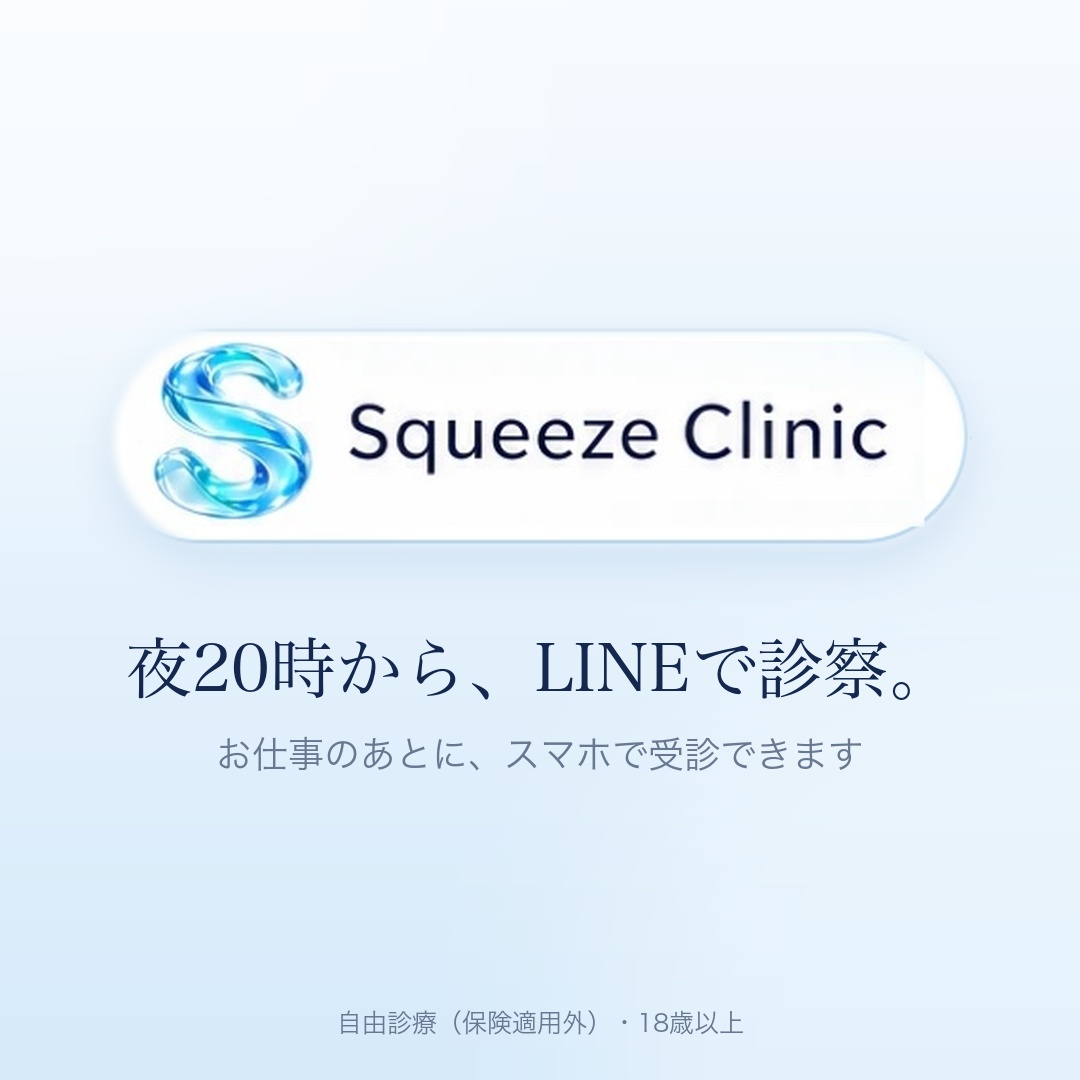
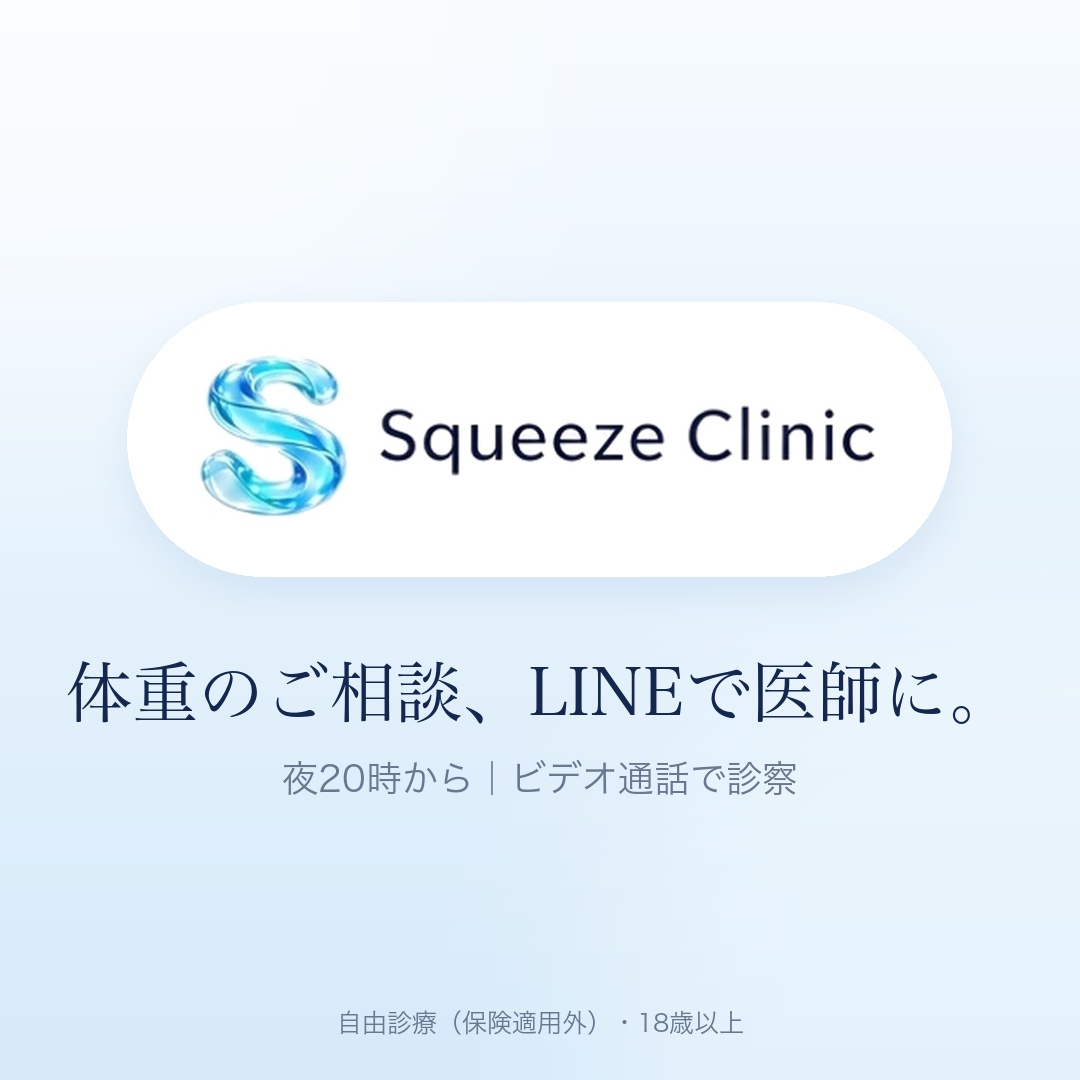
LP: headline to weight consultation

diff --git a/lp/index.html b/lp/index.html
@@ -3,9 +3,9 @@
 <head>
 <meta charset="utf-8">
 <meta name="viewport" content="width=device-width,initial-scale=1">
-<title>Squeeze Clinic｜夜20時から、LINEで診察</title>
+<title>Squeeze Clinic｜体重のご相談、LINEで医師に</title>
 <meta name="description" content="Squeeze Clinicは、LINEのビデオ通話で診察する内科のオンライン診療所です。診療時間は20:00〜翌1:00（火曜休診）。自由診療・18歳以上。">
-<meta property="og:title" content="Squeeze Clinic｜夜20時から、LINEで診察">
+<meta property="og:title" content="Squeeze Clinic｜体重のご相談、LINEで医師に">
 <meta property="og:description" content="LINEのビデオ通話で診察する内科のオンライン診療。20:00〜翌1:00（火曜休診）。自由診療・18歳以上。">
 <meta property="og:image" content="https://squeeze-clinic.github.io/uketsuke/lp/ogp.jpg">
 <meta property="og:type" content="website">
@@ -68,8 +68,8 @@ function addFriend(where){ try { if (window.fbq) fbq('track', 'Lead', {content_n
 <div class="wrap">
   <header class="hero">
     <div class="logo"><img src="logo.jpg" alt="Squeeze Clinic"></div>
-    <h1 class="mincho">夜20時から、<br>LINEで診察。</h1>
-    <p class="sub">お仕事のあとに、スマホで受診できます。</p>
+    <h1 class="mincho">体重のご相談、<br>LINEで医師に。</h1>
+    <p class="sub">夜20時から、ビデオ通話で診察します。</p>
     <a class="btn" href="https://line.me/R/ti/p/@887vpmbj" onclick="addFriend('hero')">
       <svg viewBox="0 0 24 24" fill="#fff" aria-hidden="true"><path d="M12 3C6.5 3 2 6.6 2 11c0 3.9 3.5 7.2 8.3 7.9.3.1.8.2.9.5.1.3.1.7 0 1l-.1.9c0 .3-.2 1 .9.5s5.9-3.5 8-6c1.5-1.6 2-3.2 2-4.8C22 6.6 17.5 3 12 3z"/></svg>
       LINEで友だち追加して受診する
